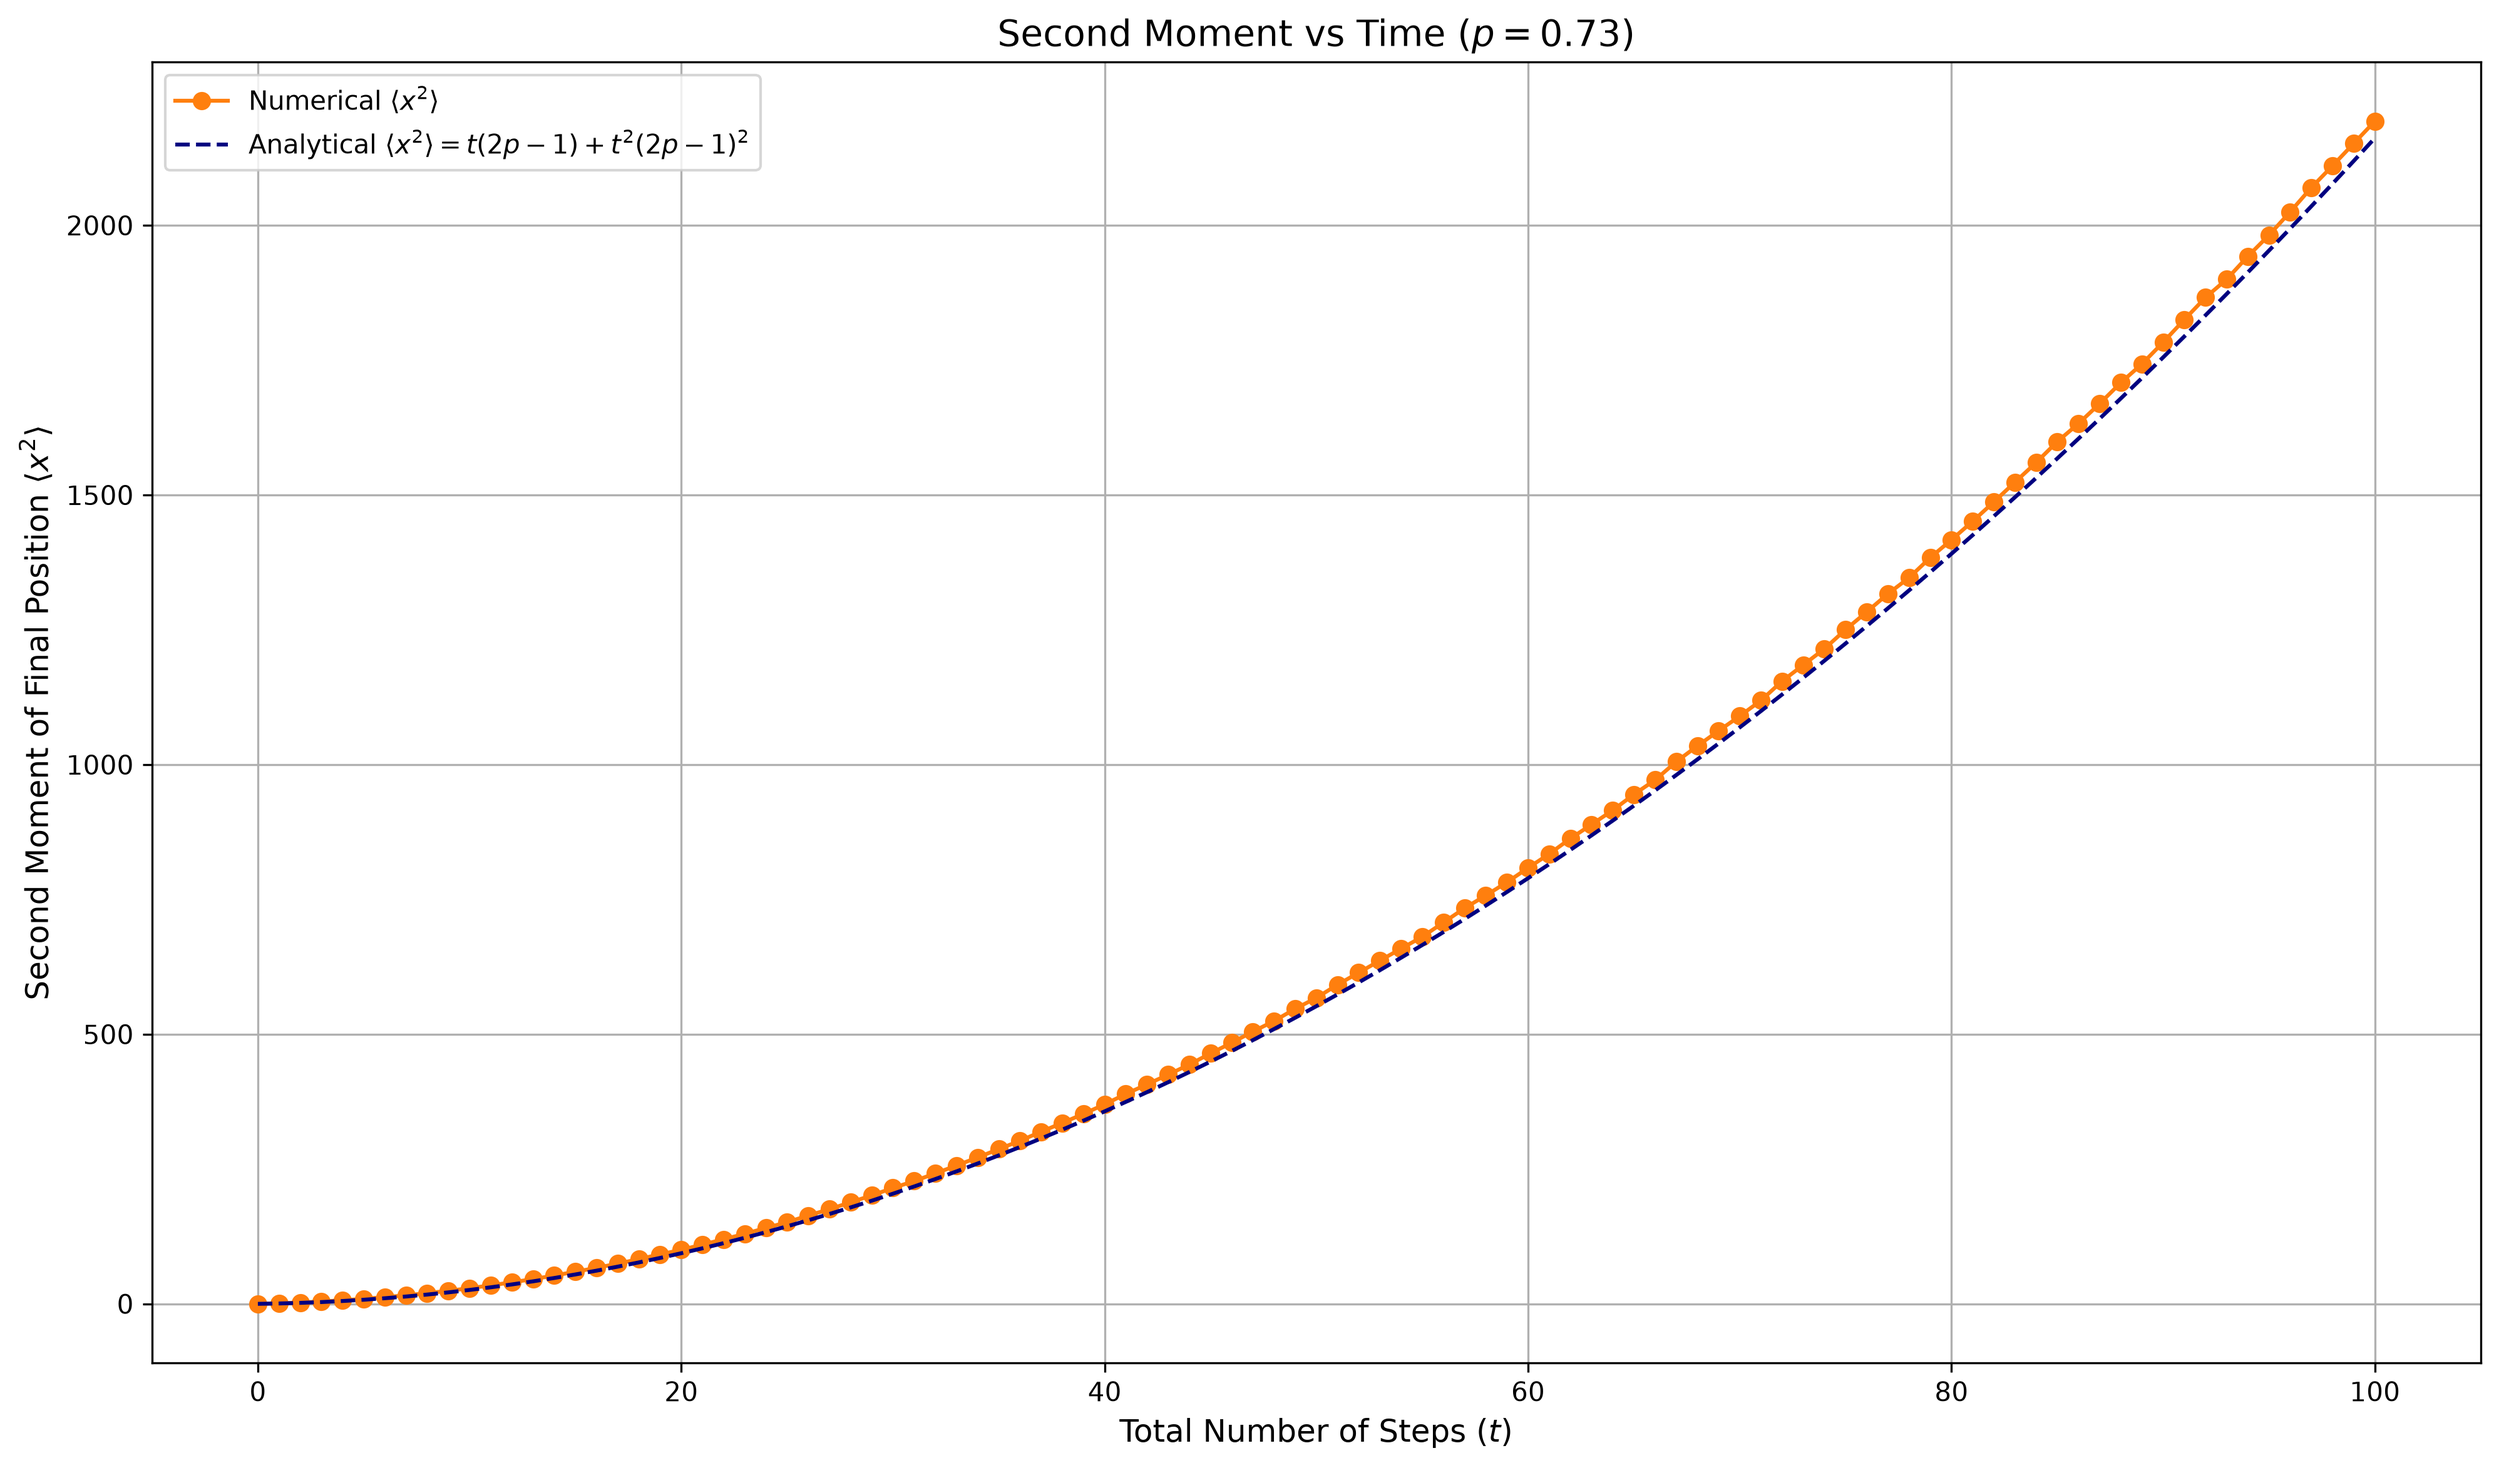
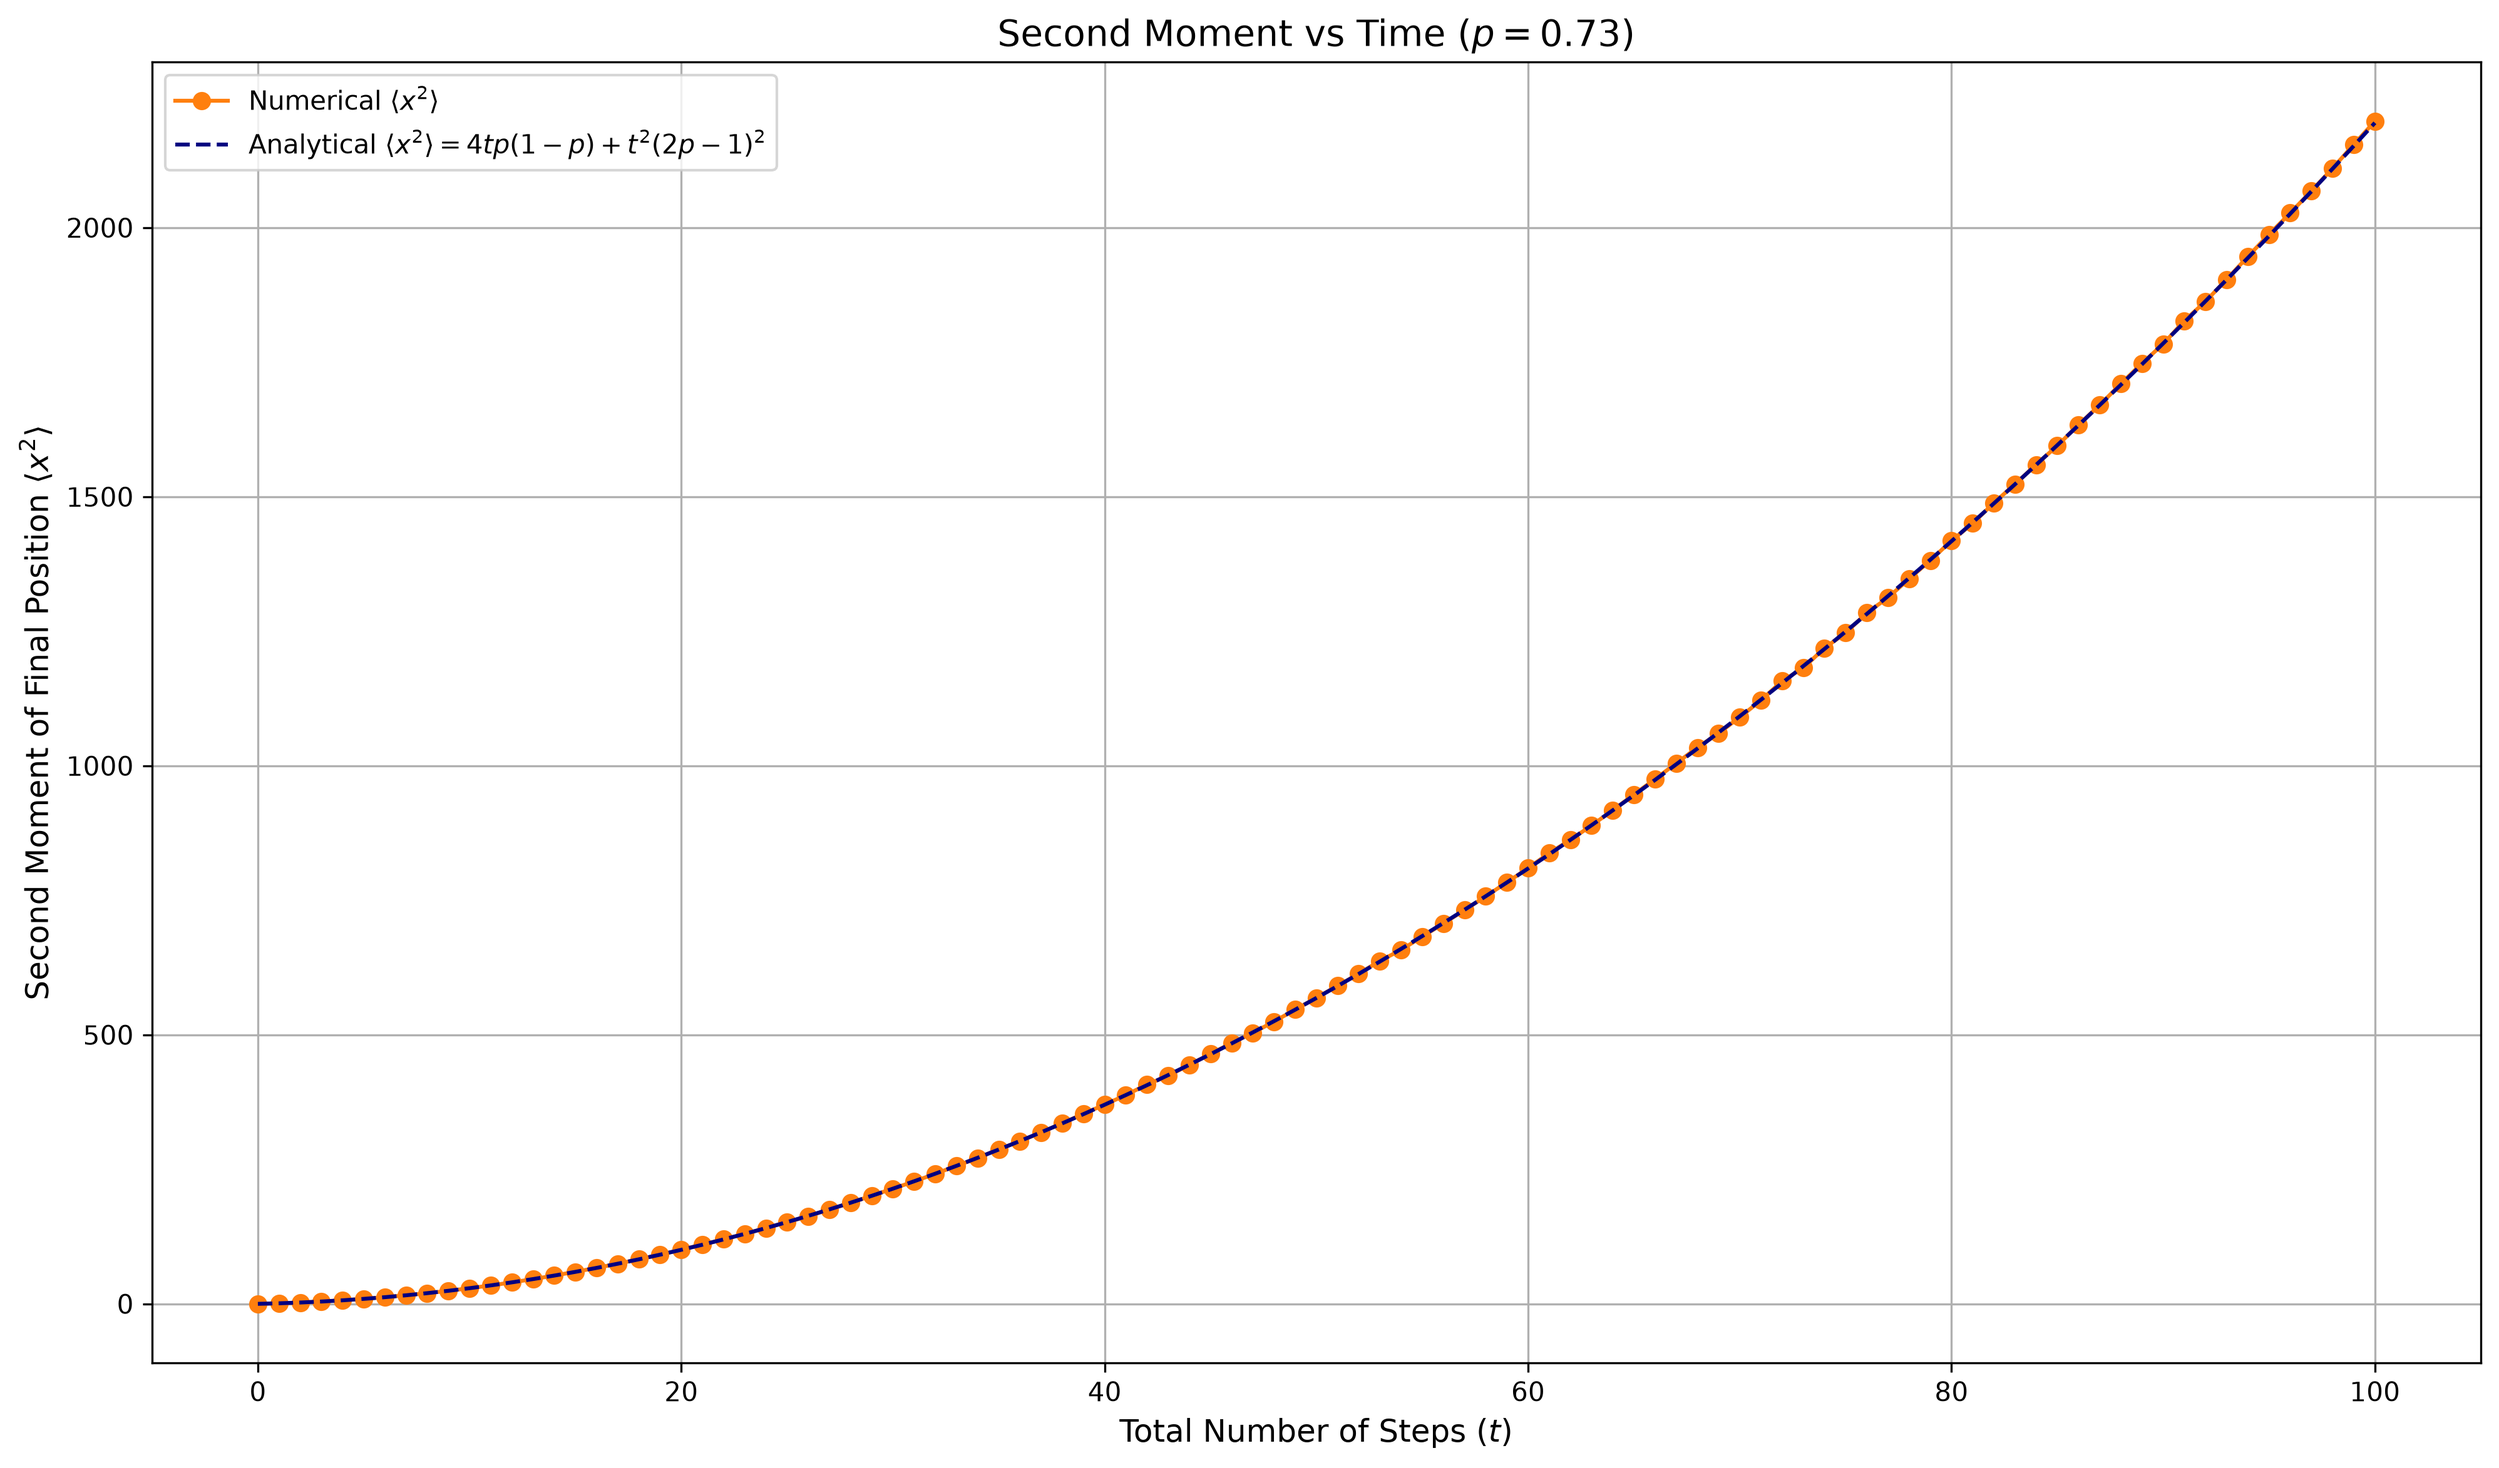
Calculated totally asymmetric case

diff --git a/1D-random-walk.py b/1D-random-walk.py
@@ -6,7 +6,7 @@ import matplotlib.pyplot as plt
 import time
 
 x = 0   # Initial position
-p = 0.73     # Probability of taking a step to the right
+p = 1.0     # Probability of taking a step to the right
 N = 100000  # Number of simulations to run
 
 
@@ -118,15 +118,15 @@ def plot_second_moment(p:float, N:int):
     plt.figure(figsize=(16, 9))
     plt.plot(t_values, y_values, label=r'Numerical $\langle x^2 \rangle$', marker='o', color='#FF7F0E')
 
-    plt.plot(t_values, second_moment_analytical(t_values, p), label=r'Analytical $\langle x^2 \rangle = t(2p - 1) + t^2(2p - 1)^2$', linestyle='--', color='#000080')
+    plt.plot(t_values, second_moment_analytical(t_values, p), label=r'Analytical $\langle x^2 \rangle = 4tp(1 - p) + t^2(2p - 1)^2$', linestyle='--', color='#000080')
 
-    plt.title(r'Second Moment vs Time $(p = 0.73)$', fontsize=14)
+    plt.title(r'Second Moment vs Time $(p = 1)$', fontsize=14)
     plt.xlabel(r'Total Number of Steps $(t)$', fontsize=12)
     plt.ylabel(r'Second Moment of Final Position $\langle x^2 \rangle$', fontsize=12)
 
     plt.grid(True)
     plt.legend()
-    plt.savefig('plots\\second-moment-vs-t_biased.png', dpi=300, bbox_inches='tight')
+    plt.savefig('plots\\second-moment-vs-t_asymmetric.png', dpi=300, bbox_inches='tight')
     plt.show()
 
     #df = pd.DataFrame({'Time':t_values, 'SecondMoment':y_values})
@@ -140,7 +140,7 @@ def gaussian(x):
 def second_moment_analytical(t:list, p:float):
     output = []
     for i in t:
-        output.append(t[i] * (2*p - 1) + (t[i] * (2*p - 1))**2)
+        output.append(4*t[i] * p * (1 - p) + (t[i] * (2*p - 1))**2)
 
     return output
 
@@ -153,9 +153,11 @@ def plot_prob(x:int, p:float):
     prob_dict_30 = dict(sorted(P_numerical(x, 30, p, N).items()))
     prob_dict_50 = dict(sorted(P_numerical(x, 50, p, N).items()))
 
-    x_20, P_20 = np.array(list(prob_dict_20.keys())) / (20**0.5), np.array(list(prob_dict_20.values())) * (20**0.5)
-    x_30, P_30 = np.array(list(prob_dict_30.keys())) / (30**0.5), np.array(list(prob_dict_30.values())) * (30**0.5)
-    x_50, P_50 = np.array(list(prob_dict_50.keys())) / (50**0.5), np.array(list(prob_dict_50.values())) * (50**0.5)
+    x_20, P_20 = np.array(list(prob_dict_20.keys())), np.array(list(prob_dict_20.values()))
+    x_30, P_30 = np.array(list(prob_dict_30.keys())), np.array(list(prob_dict_30.values()))
+    x_50, P_50 = np.array(list(prob_dict_50.keys())), np.array(list(prob_dict_50.values()))
+
+    x_smooth = np.linspace(-10, 10, 1000)
 
     plt.figure(figsize=(16, 9))
     plt.plot(x_20, P_20, marker='o', color='#0D6EFD', label='t = 20')
@@ -164,7 +166,7 @@ def plot_prob(x:int, p:float):
 
     #plt.plot(x_smooth, gaussian(x_smooth), label='Gaussian', color='magenta', linestyle='--')
 
-    plt.title(r'1-Dimensional Biased Random Walk $(p = 0.73)$', fontsize=16, fontweight='bold', pad=15)
+    plt.title(r'Totally Asymmetric 1D Random Walk $(p = 1)$', fontsize=16, fontweight='bold', pad=15)
     plt.xlabel(r'Position $(x)$', fontsize=12, labelpad=10)
     plt.ylabel(r'Probability, $P(x, t)$', fontsize=12, labelpad=10)
 
@@ -173,7 +175,7 @@ def plot_prob(x:int, p:float):
 
     plt.legend(fontsize=12, frameon=True, facecolor='white')
     plt.tight_layout()
-    plt.savefig(f'plots\\1D-biased-random-walk_numerical.png', dpi=300, bbox_inches='tight')
+    plt.savefig(f'plots\\1D-asymmetric-random-walk_numerical.png', dpi=300, bbox_inches='tight')
     plt.show()
     
 
